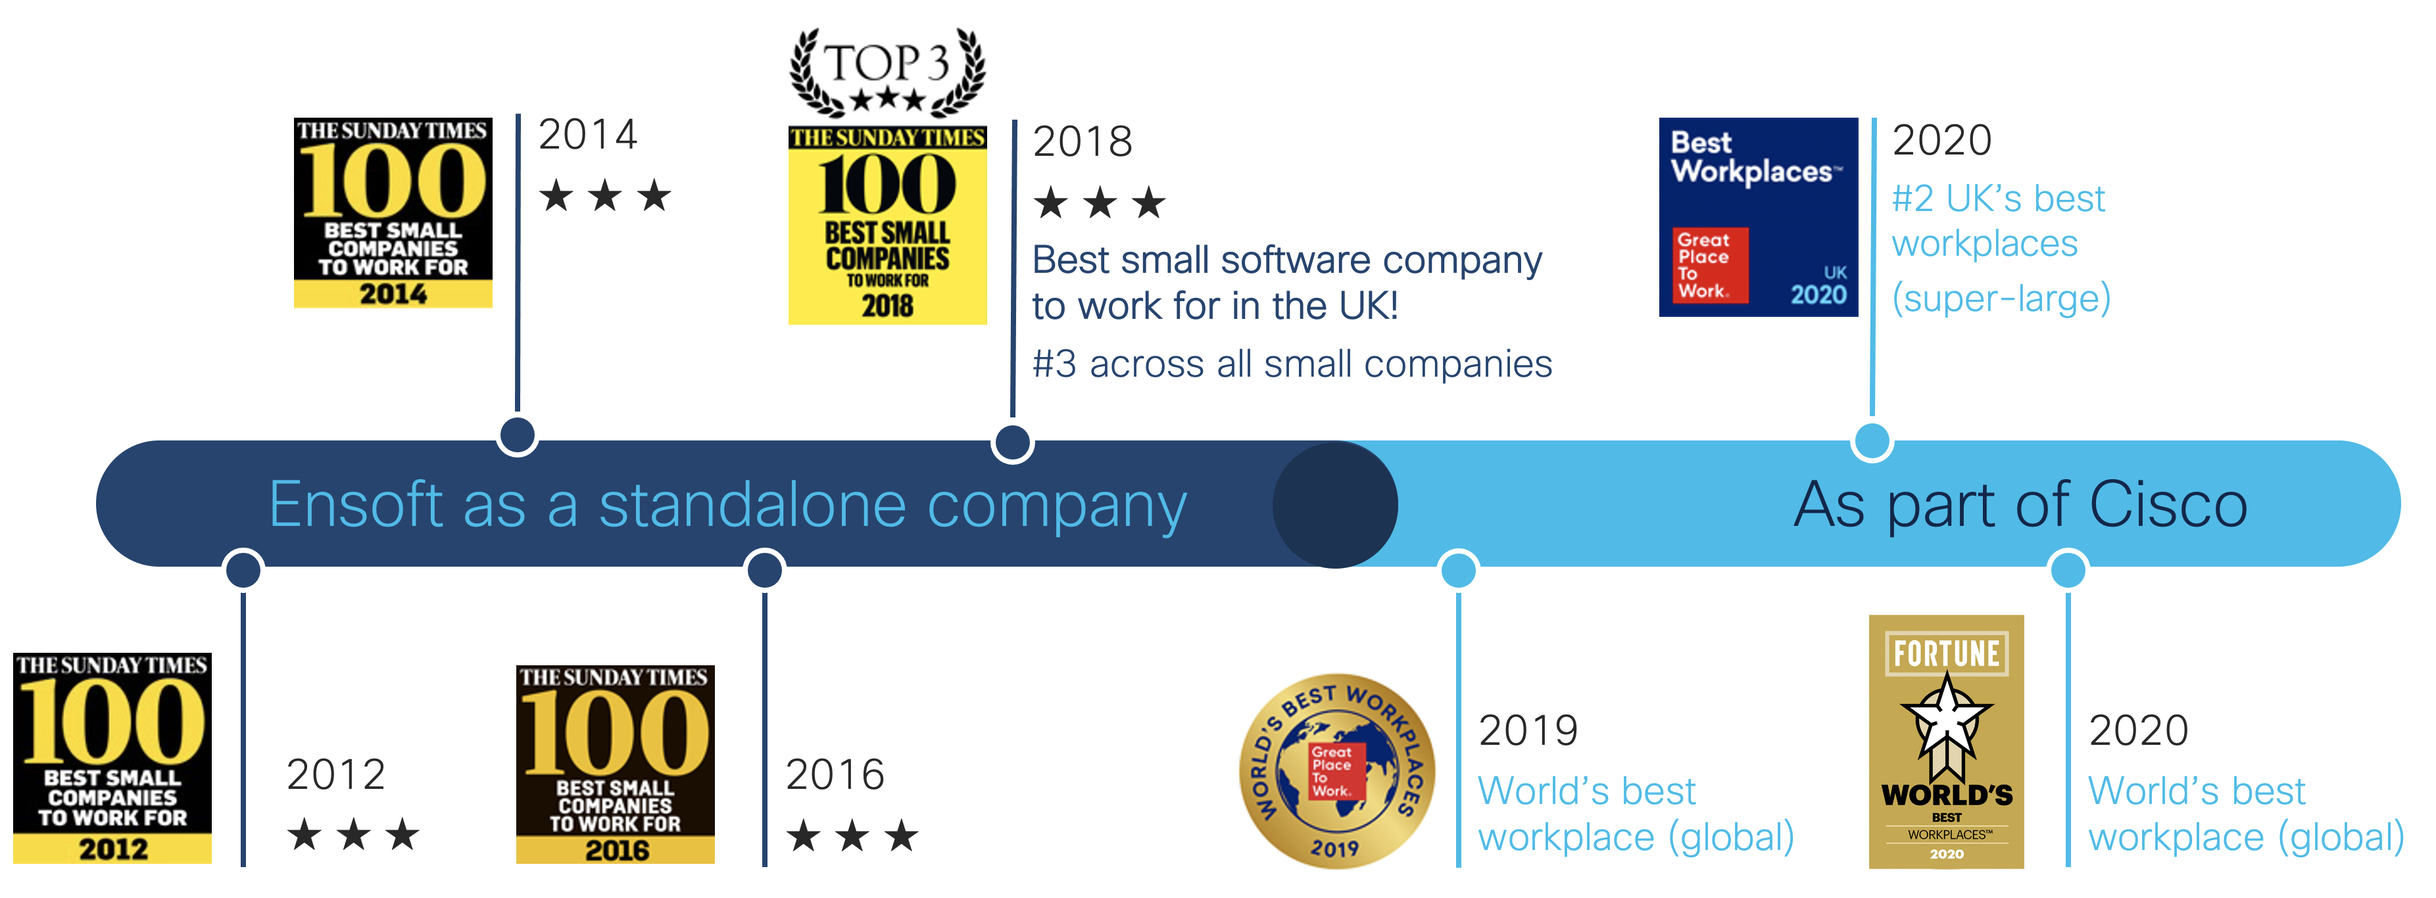
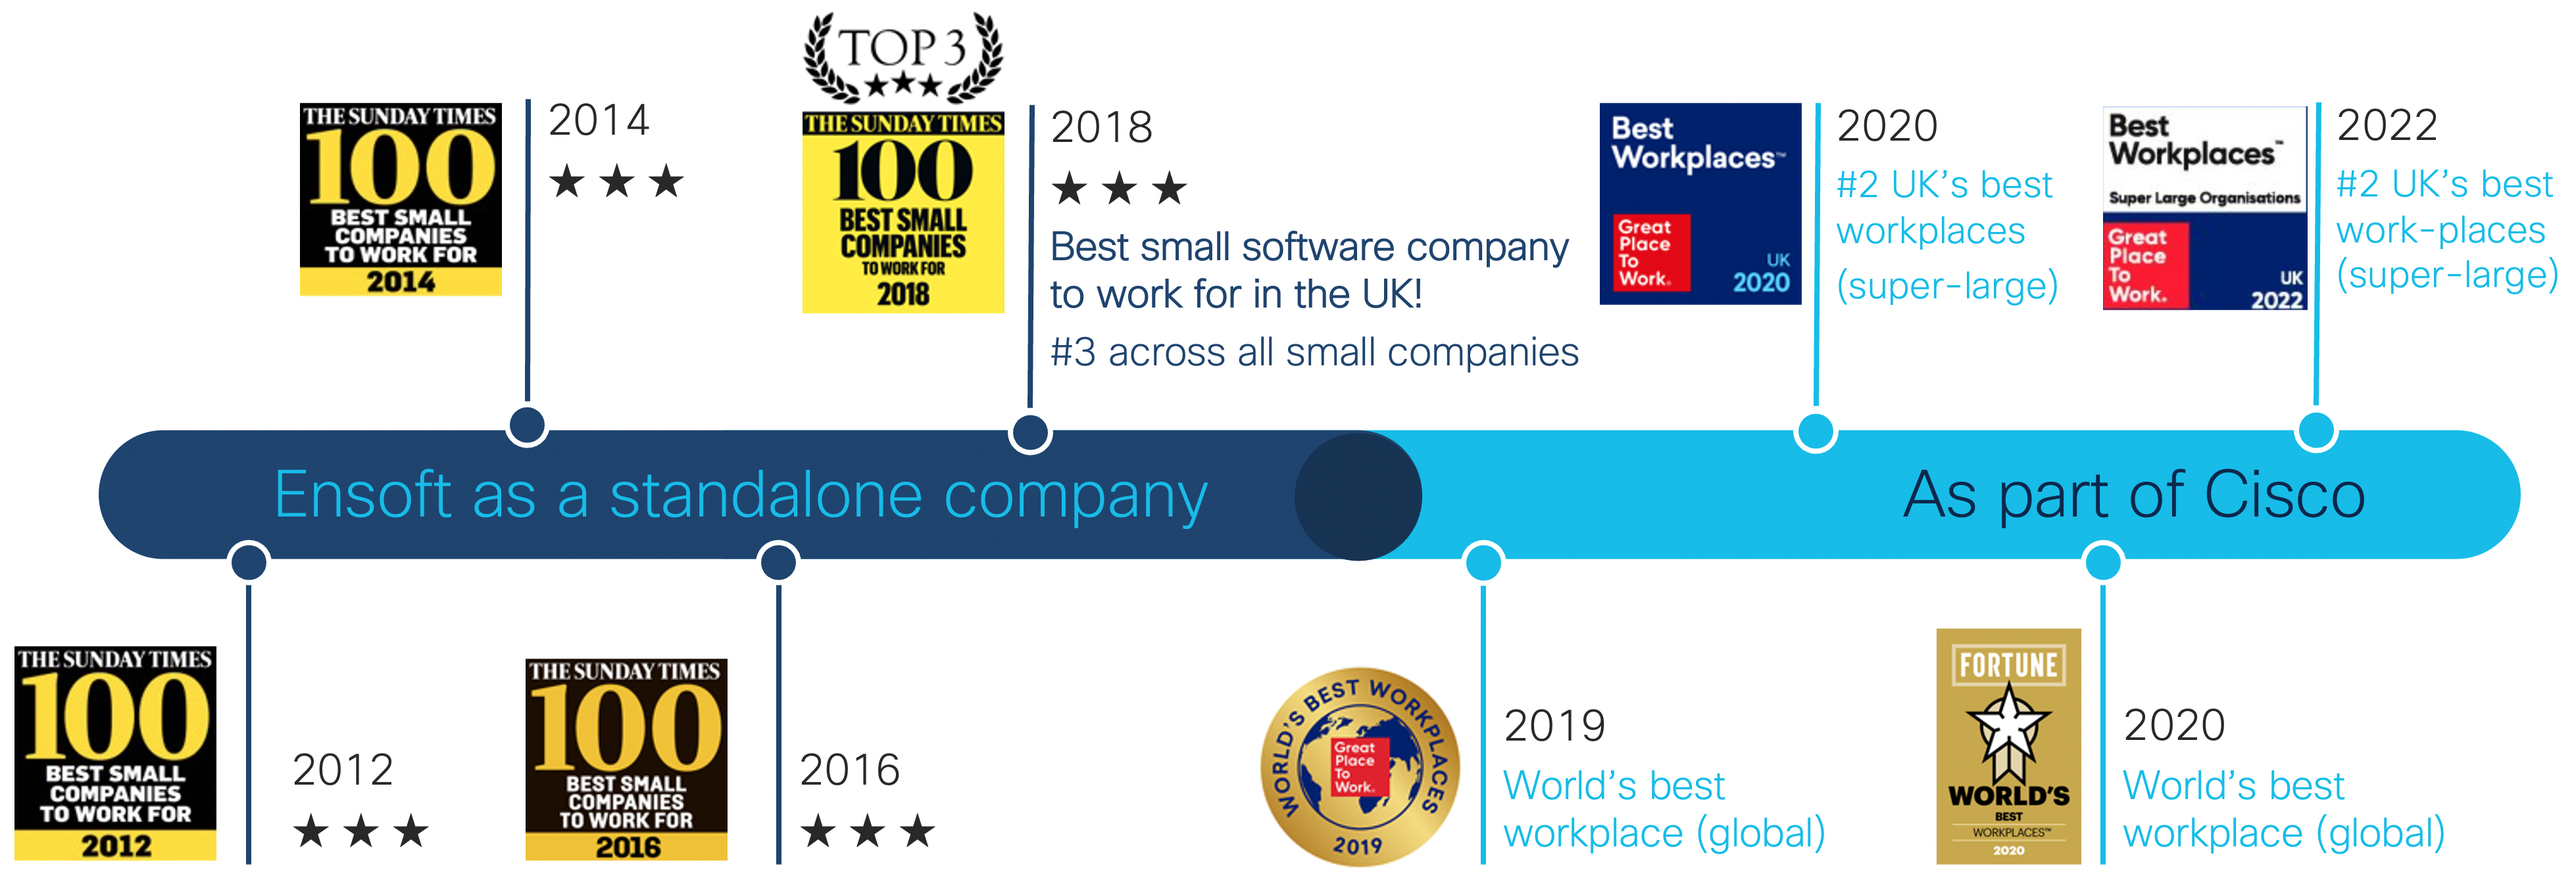
A few updates

Changed region(s): [[0.0, 0.0925, 0.9935, 1.0], [0.3105, 0.0, 0.9935, 0.4316], [0.9004, 0.1233, 0.9625, 0.1541]]

diff --git a/pages/culture.md b/pages/culture.md
@@ -1,4 +1,4 @@
-[Home](/README.md) | [About](/pages/about.md) | Culture | [Join Us](/pages/join.md) | [COVID-19](/pages/covid.md)
+[Home](/README.md) | [About](/pages/about.md) | Culture | [Join Us](/pages/join.md)
 ![spacer](https://logs-01.loggly.com/inputs/e0e1595f-302c-4de6-bfe3-a7da99d6a3d3.gif?type=github&page=culture)
 [![banner](/pages/img/cisco_ensoft_banner_small.png)](/README.md)
 
@@ -66,8 +66,14 @@ writing some code on your own, or collaborating with colleagues.
 There's no dress code - everyone is encouraged to dress in a way that is
 comfortable and reflects their personality.
 
-Obviously right now, things are different due to COVID, and our collaborative
-environment has [successfully moved online](/pages/covid.md). But normally:
+Since Covid, we have enthusiastically embraced hybrid work, to combine the best
+of both flexibility and in-person collaboration. For
+example, we have three "core days" per week, where you can expect people to be in the
+office, and it's up to you for the other two. You can also work
+from anywhere in the world for two weeks per year.
+
+The most rewarding and creative collaboration come from in-person interactions,
+so we put a lot of thought into the office. For example:
 
  - Everyone gets a sit-stand desk, high-spec laptop, ergonomic Herman Miller
    desk chair etc.
@@ -130,7 +136,13 @@ In between are many activities that the company might support in some way. For e
 
 We believe we are here to make a difference, not just make money.
 
-All employees are given the chance to take five days to volunteer for a cause of their choice every year through the [Time2Give](https://blogs.cisco.com/tag/time2give) scheme. (It was extended to ten days for 2020, due to the exceptional situation of COVID-19.) There's corporate donation matching of up to $10,000 per annum. Any time someone volunteers for an hour, they can claim a $10 donation from Cisco for the charity.
+All employees are given the chance to take at least five days to volunteer for a
+cause of their choice every year through the
+[Time2Give](https://blogs.cisco.com/tag/time2give) scheme. (It has actually been
+at least ten days for the past two years.) There's
+corporate donation matching of up to $10,000 per annum. Any time someone
+volunteers for an hour, they can claim a $10 donation from Cisco for the
+charity.
 
 For more information about Cisco's commitment to corporate social responsibility (or 'CSR'), check out [Cisco's CSR page](https://www.cisco.com/c/en/us/about/csr.html) or even the [Cisco CSR Twitter](https://twitter.com/ciscocsr?lang=en)!
 
@@ -141,4 +153,4 @@ levels about the commitment. For example Cisco ranked #2 in Fortune's [100 Best 
 
 One article on diversity within Cisco can be found [here](https://www.cisco.com/c/en/us/about/inclusion-diversity/us.html); this includes a snapshot of the current diversity levels, and lots of other information such as pay parity and company initiatives to develop an equal, fair and inclusive workplace for all.
 
-[Home](/README.md) | [About](/pages/about.md) | Culture | [Join Us](/pages/join.md) | [COVID-19](/pages/covid.md)
+[Home](/README.md) | [About](/pages/about.md) | Culture | [Join Us](/pages/join.md)

diff --git a/pages/about.md b/pages/about.md
@@ -1,4 +1,4 @@
-[Home](/README.md) | About | [Culture](/pages/culture.md) | [Join Us](/pages/join.md) | [COVID-19](/pages/covid.md)
+[Home](/README.md) | About | [Culture](/pages/culture.md) | [Join Us](/pages/join.md)
 ![spacer](https://logs-01.loggly.com/inputs/e0e1595f-302c-4de6-bfe3-a7da99d6a3d3.gif?type=github&page=about)
 [![banner](/pages/img/cisco_ensoft_banner_small.png)](/README.md)
 
@@ -6,7 +6,7 @@
 
 ## Introduction
 
-Cisco Ensoft is a team of around 70 software engineers working for Cisco, the
+Cisco Ensoft is a team of around 80 software engineers working for Cisco, the
 world's largest computer networking company. The Ensoft team deliver software
 solutions for the most critical and high-capacity routers that run the
 Internet.
@@ -52,12 +52,14 @@ UK, and #3
 across all sectors](https://www.b.co.uk/the-lists/small-companies/?year-2018-p-266-749/)
 in its final year as an independent company.
 
-Since acquisition, Cisco has come [#1 in the global "World's Best Workplace" awards two years
+Since acquisition, Cisco has, for example, come [#1 in the global "World's Best Workplace" awards two years
 running](https://blogs.cisco.com/wearecisco/cisco-worlds-best-workplace), and
-was ranked [#2 across UK super-large
-employers](https://www.greatplacetowork.co.uk/awards/uks-best-workplaces/uks-best-workplaces-2019/).
+was ranked #2 across UK super-large
+employers in
+[2020](https://www.greatplacetowork.co.uk/awards/uks-best-workplaces/uks-best-workplaces-2020/)
+and [2022](https://www.greatplacetowork.co.uk/awards/uks-best-workplaces/uks-best-workplaces-2022/).
 
 [![banner](/pages/img/awards.png)](https://fortune.com/worlds-best-workplaces/2020/)
 
 ---
-[Home](/README.md) | About | [Culture](/pages/culture.md) | [Join Us](/pages/join.md) | [COVID-19](/pages/covid.md)
+[Home](/README.md) | About | [Culture](/pages/culture.md) | [Join Us](/pages/join.md)

diff --git a/pages/join.md b/pages/join.md
@@ -1,4 +1,4 @@
-[Home](/README.md) | [About](/pages/about.md) | [Culture](/pages/culture.md) | Join Us | [COVID-19](/pages/covid.md)
+[Home](/README.md) | [About](/pages/about.md) | [Culture](/pages/culture.md) | Join Us
 ![spacer](https://logs-01.loggly.com/inputs/e0e1595f-302c-4de6-bfe3-a7da99d6a3d3.gif?type=github&page=join)
 [![banner](/pages/img/cisco_ensoft_banner_small.png)](/README.md)
 
@@ -85,7 +85,7 @@ Since the timescale is relatively short, we do require enough coding experience 
 
 ### Micro Internships
 
-We sometimes also run paid micro-internships, that last just one week. **Micro-internships are currently on hold because of COVID.** Summer internships are operating as usual though.
+We sometimes also run paid micro-internships, that last just one week.
 
 When they are on offer, they are advertised separately. They provide a taster of what it is like at Cisco Ensoft, and the opportunity to write some software professionally, albeit on a small project. We require enough coding experience to make a meaningful contribution in the week.
 
@@ -109,4 +109,4 @@ No referees are required at this stage; we will only request these details from 
 
 If you have any questions, and have a GitHub account, feel free to [open an issue here](https://github.com/ensoft/about/issues/new/choose) if you want to talk to a human being. Good luck!
 
-[Home](/README.md) | [About](/pages/about.md) | [Culture](/pages/culture.md) | Join Us | [COVID-19](/pages/covid.md)
+[Home](/README.md) | [About](/pages/about.md) | [Culture](/pages/culture.md) | Join Us

diff --git a/README.md b/README.md
@@ -1,4 +1,4 @@
-Home | [About](/pages/about.md) | [Culture](/pages/culture.md) | [Join Us](/pages/join.md) | [COVID-19](/pages/covid.md)
+Home | [About](/pages/about.md) | [Culture](/pages/culture.md) | [Join Us](/pages/join.md)
 ![spacer](https://logs-01.loggly.com/inputs/e0e1595f-302c-4de6-bfe3-a7da99d6a3d3.gif?type=github&page=home)
 [![banner](/pages/img/cisco_ensoft_banner.png)](/README.md)
 
@@ -15,7 +15,7 @@ But maybe you were still a bit curious for more back-story? If so, then this rep
 
 ## "Run the Internet"?
 
-Especially in this time of COVID-19, the Internet underpins everything we do.
+The Internet underpins everything we do.
 It's how we learn, play, work, relax, connect, even fall in love.
 
 But the Internet doesn't build itself, and it has to evolve rapidly.
@@ -35,5 +35,3 @@ If you're intrigued whether that might include you, click below!
 [Culture](pages/culture.md) - _Life as a Cisco Ensoft engineer._
 
 [Join Us](pages/join.md) - _Come and work with us._
-
-[COVID-19](pages/covid.md) - _Our response and safety measures._
